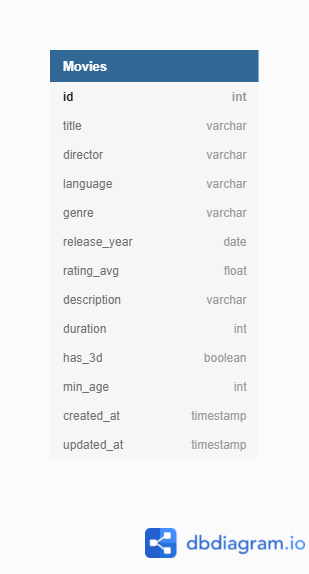
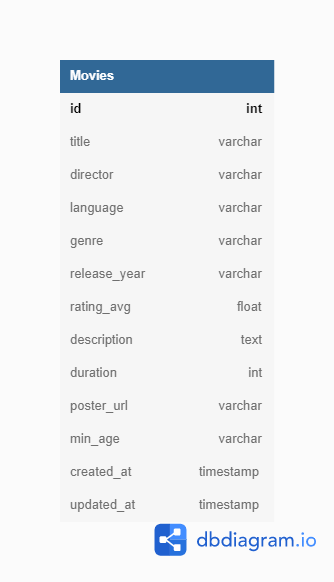
update: readme changed to new model features

diff --git a/README.md b/README.md
@@ -180,7 +180,7 @@ npm start
 
 <br>
 
-## Deploy no Heroku (instável no momento - será corrigido em breve)
+## Deploy no Heroku
 
 Se preferir não rodar o banco em sua máquina, você pode interagir com a API hospedada no [Heroku](https://dashboard.heroku.com/). Basta utilizar a URI:
 <br>
@@ -216,12 +216,12 @@ Resposta:
 		"director": "Barry Jenkins",
 		"language": "Inglês",
 		"genre": "drama",
-		"release_year": "2016-10-21",
+		"release_year": "2016",
 		"rating_avg": 98,
 		"description": "Em Moonlight: Sob a Luz do Luar, acompanhamos três momentos da vida de Chiron, um jovem negro morador de uma comunidade pobre de Miami. Do bullying na infância, passando pela crise de identidade da adolescência e a tentação do universo do crime e das drogas, este é um poético estudo de personagem.",
 		"duration": 111,
 		"poster_url": "https://uauposters.com.br/media/catalog/product/cache/1/image/333x500/9df78eab33525d08d6e5fb8d27136e95/1/1/115020180226-uau-posters-filmes-moonlight.jpg",
-		"min_age": 17,
+		"min_age": "R",
 		"createdAt": "2022-04-16T19:48:44.000Z",
 		"updatedAt": "2022-04-16T19:48:44.000Z"
 	},
@@ -231,12 +231,12 @@ Resposta:
 		"director": "Jordan Peele",
 		"language": "Inglês",
 		"genre": "terror",
-		"release_year": "2019-03-22",
+		"release_year": "2019",
 		"rating_avg": 93,
 		"description": "As férias tranquilas de uma família se transformam em um pesadelo quando sósias sinistros batem à sua porta tarde da noite.",
 		"duration": 116,
 		"poster_url": "https://m.media-amazon.com/images/M/MV5BZTliNWJhM2YtNDc1MC00YTk1LWE2MGYtZmE4M2Y5ODdlNzQzXkEyXkFqcGdeQXVyMzY0MTE3NzU@._V1_.jpg",
-		"min_age": 17,
+		"min_age": "R",
 		"createdAt": "2022-04-16T19:48:44.000Z",
 		"updatedAt": "2022-04-16T19:48:44.000Z"
 	},
@@ -246,12 +246,12 @@ Resposta:
 		"director": "Kleber Mendonça",
 		"language": "Português",
 		"genre": "mistério",
-		"release_year": "2020-05-12",
+		"release_year": "2020",
 		"rating_avg": 93,
 		"description": "Num futuro próximo, Bacurau, uma pequena cidade brasileira no oeste de Pernambuco, lamenta a perda de sua matriarca, Carmelita (Lia de Itamaracá), que viveu até os 94 anos. Dias depois, seus habitantes aos poucos percebem algo estranho acontecer na região: enquanto drones passeiam pelos céus, estrangeiros chegam pela primeira vez na cidade com planos de exterminar toda a população ali residente, carros são atingidos por tiros e cadáveres começam a aparecer. Os habitantes chegam à conclusão de que estão sendo atacados. Resta identificar o inimigo e criar coletivamente um meio de defesa.",
 		"duration": 132,
 		"poster_url": "https://br.web.img3.acsta.net/pictures/19/07/23/23/24/0636548.jpg",
-		"min_age": 16,
+		"min_age": "R",
 		"createdAt": "2022-04-16T19:48:44.000Z",
 		"updatedAt": "2022-04-16T19:48:44.000Z"
 	},
@@ -261,12 +261,12 @@ Resposta:
 		"director": "Kuang-Hui Liu",
 		"language": "Chinês",
 		"genre": "romance",
-		"release_year": "2020-09-30",
+		"release_year": "2020",
 		"rating_avg": 88,
 		"description": "Em 1987, após o fim da lei marcial em Taiwan, Jia-han e Birdy se apaixonam e são alvo de homofobia, pressão familiar e estigma social.",
 		"duration": 118,
 		"poster_url": "https://upload.wikimedia.org/wikipedia/pt/2/2c/Your_Name_Engraved_Herein.png",
-		"min_age": 13,
+		"min_age": "R",
 		"createdAt": "2022-04-16T19:48:44.000Z",
 		"updatedAt": "2022-04-16T19:48:44.000Z"
 	},
@@ -276,12 +276,12 @@ Resposta:
 		"director": "Hayao Miyazaki",
 		"language": "Japonês",
 		"genre": "fantasia",
-		"release_year": "2001-07-20",
+		"release_year": "2001",
 		"rating_avg": 97,
 		"description": "Chihiro é uma garota de 10 anos que acredita que todo o universo deve atender aos seus caprichos. Ao descobrir que vai se mudar, ela fica furiosa. Na viagem, Chihiro percebe que seu pai se perdeu no caminho para a nova cidade, indo parar defronte um túnel aparentemente sem fim, guardado por uma estranha estátua. Curiosos, os pais de Chihiro decidem entrar no túnel e Chihiro vai com eles. Chegam numa cidade sem nenhum habitante e os pais de Chihiro decidem comer a comida de uma das casas, enquanto a menina passeia. Ela encontra com Haku, garoto que lhe diz para ir embora o mais rápido possível e ao reencontrar seus pais, Chihiro fica surpresa ao ver que eles se transformaram em gigantescos porcos. É o início da jornada de Chihiro por um mundo fantasma, povoado por seres fantásticos, no qual humanos não são bem-vindos.",
 		"duration": 125,
 		"poster_url": "https://uauposters.com.br/media/catalog/product/cache/1/image/9df78eab33525d08d6e5fb8d27136e95/3/3/330720211103-uau-posters-a-viagem-de-chihiro-estudio-ghibli-filmes.jpg",
-		"min_age": 13,
+		"min_age": "L",
 		"createdAt": "2022-04-16T19:48:44.000Z",
 		"updatedAt": "2022-04-16T19:48:44.000Z"
 	}
@@ -305,12 +305,12 @@ Resposta:<br>
 	"director": "Barry Jenkins",
 	"language": "Inglês",
 	"genre": "drama",
-	"release_year": "2016-10-21",
+	"release_year": "2016",
 	"rating_avg": 98,
 	"description": "Em Moonlight: Sob a Luz do Luar, acompanhamos três momentos da vida de Chiron, um jovem negro morador de uma comunidade pobre de Miami. Do bullying na infância, passando pela crise de identidade da adolescência e a tentação do universo do crime e das drogas, este é um poético estudo de personagem.",
 	"duration": 111,
 	"poster_url": "https://uauposters.com.br/media/catalog/product/cache/1/image/333x500/9df78eab33525d08d6e5fb8d27136e95/1/1/115020180226-uau-posters-filmes-moonlight.jpg",
-	"min_age": 17,
+	"min_age": "R",
 	"createdAt": "2022-04-16T19:48:44.000Z",
 	"updatedAt": "2022-04-16T19:48:44.000Z"
 }
@@ -338,12 +338,12 @@ Resposta:
 	"director": "Kuang-Hui Liu",
 	"language": "Chinês",
 	"genre": "romance",
-	"release_year": "2020-09-30",
+	"release_year": "2020",
 	"rating_avg": 88,
 	"description": "Em 1987, após o fim da lei marcial em Taiwan, Jia-han e Birdy se apaixonam e são alvo de homofobia, pressão familiar e estigma social.",
 	"duration": 118,
 	"poster_url": "https://upload.wikimedia.org/wikipedia/pt/2/2c/Your_Name_Engraved_Herein.png",
-	"min_age": 13,
+	"min_age": "R",
 	"createdAt": "2022-04-16T19:48:44.000Z",
 	"updatedAt": "2022-04-16T19:48:44.000Z"
 }
@@ -361,12 +361,12 @@ Template para enviar os dados:
 	"director": "Diretor Teste",
 	"language": "Linguagem Teste",
 	"genre": "Gênero Teste",
-	"release_year": "2012-12-12",
+	"release_year": "2012",
 	"rating_avg": 12,
 	"description": "Descrição Teste",
 	"duration": 12,
 	"poster_url": "teste",
-	"min_age": 12
+	"min_age": "R"
 }
 ```
 
@@ -380,12 +380,12 @@ Resposta:
 	"director": "Diretor Teste",
 	"language": "Linguagem Teste",
 	"genre": "Gênero Teste",
-	"release_year": "2012-12-12",
+	"release_year": "2012",
 	"rating_avg": 12,
 	"description": "Descrição Teste",
 	"duration": 12,
 	"poster_url": "teste",
-	"min_age": 12,
+	"min_age": "R",
 	"updatedAt": "2022-04-16T20:29:57.327Z",
 	"createdAt": "2022-04-16T20:29:57.327Z"
 }
@@ -415,12 +415,12 @@ Resposta:<br>
 	"director": "Barry Jenkins",
 	"language": "Inglês",
 	"genre": "romance",
-	"release_year": "2016-10-21",
+	"release_year": "2016",
 	"rating_avg": 98,
 	"description": "Em Moonlight: Sob a Luz do Luar, acompanhamos três momentos da vida de Chiron, um jovem negro morador de uma comunidade pobre de Miami. Do bullying na infância, passando pela crise de identidade da adolescência e a tentação do universo do crime e das drogas, este é um poético estudo de personagem.",
 	"duration": 111,
 	"poster_url": "https://uauposters.com.br/media/catalog/product/cache/1/image/333x500/9df78eab33525d08d6e5fb8d27136e95/1/1/115020180226-uau-posters-filmes-moonlight.jpg",
-	"min_age": 17,
+	"min_age": "R",
 	"createdAt": "2022-04-16T19:48:44.000Z",
 	"updatedAt": "2022-04-16T20:30:06.000Z"
 }
